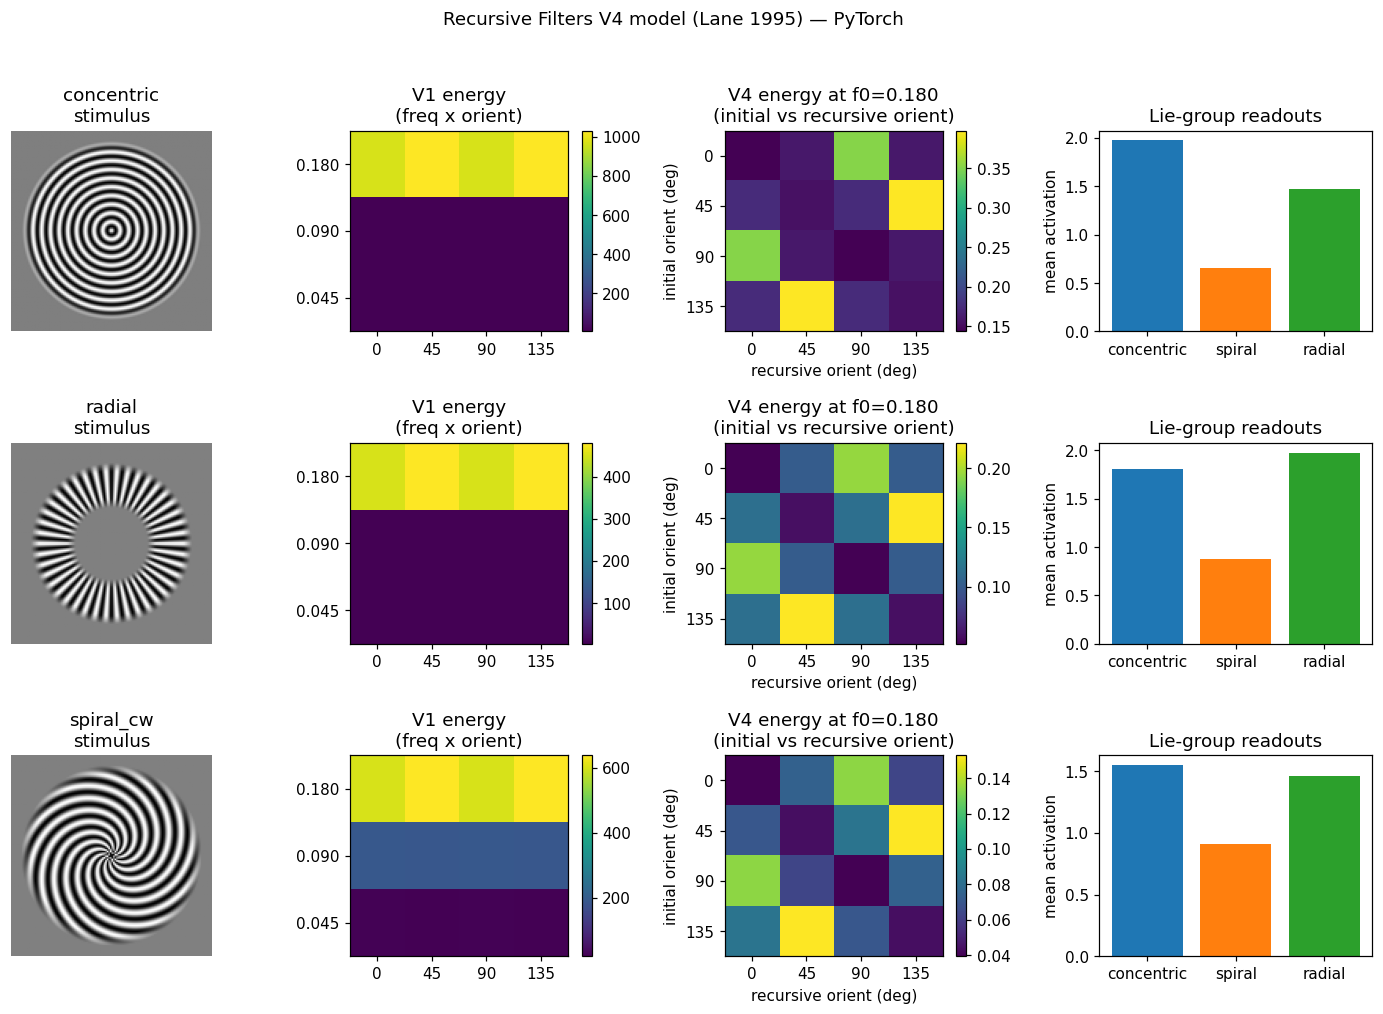
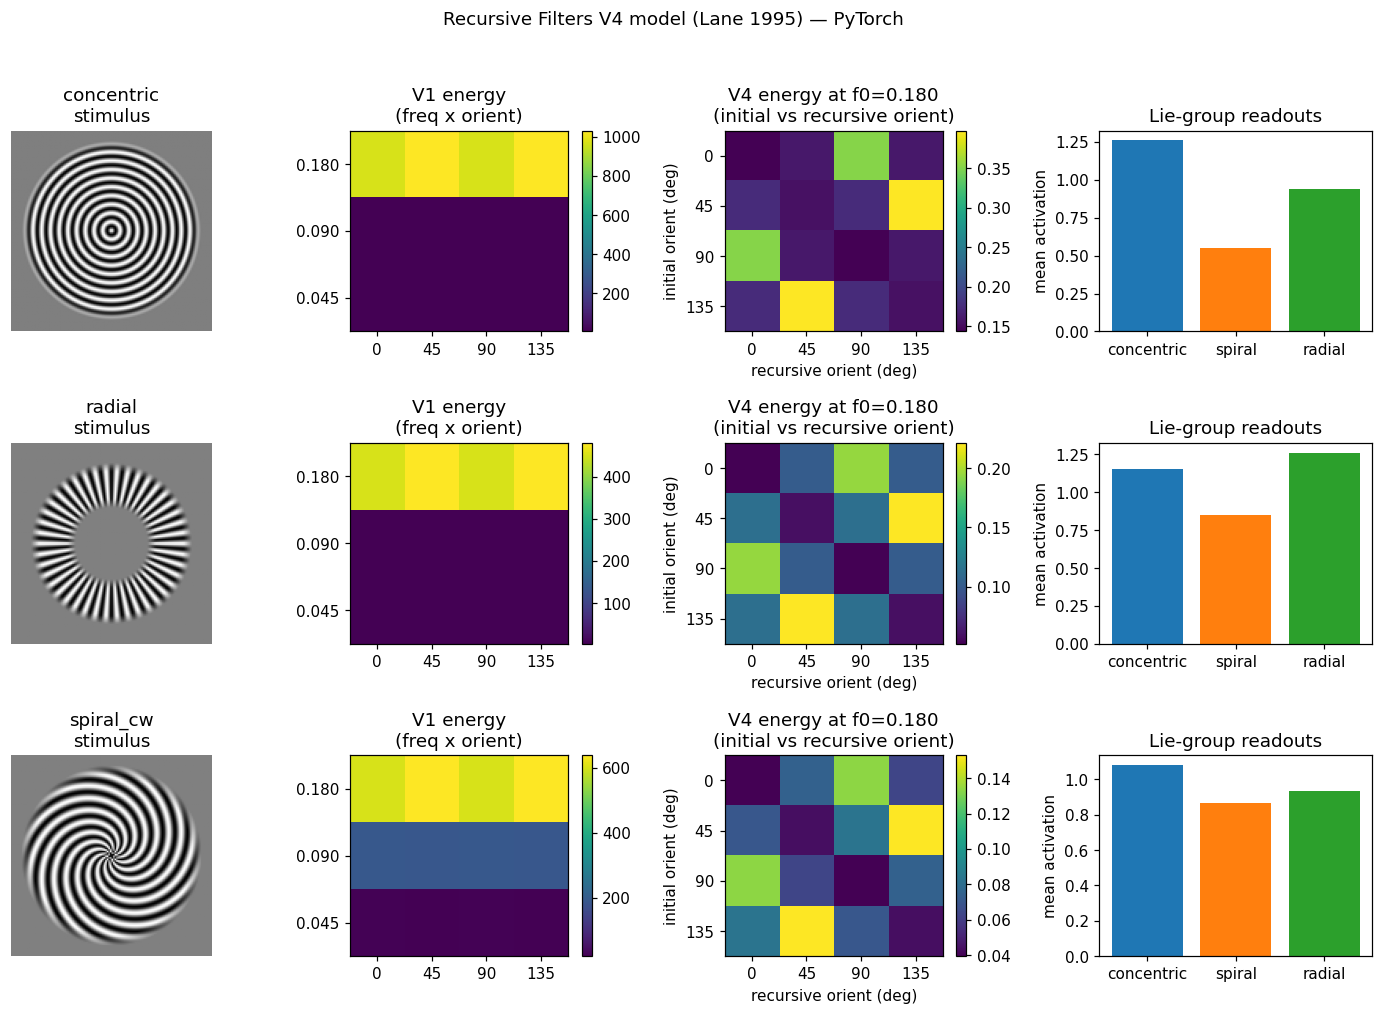
add OrientedDCBank and radial-cell lateral inhibition
Two no-training extensions to address the radial discrimination weakness:

* OrientedDCBank: anisotropic Gaussian "frequency-zero Gabor" channel
  added as an extra recursive-frequency slot in V4. Optional DOG-style
  perpendicular surround (v4_dc_surround_ratio) rejects adjacent parallel
  stripes; rectified and squared output for consistency with the V1->V4
  power pipeline. Configurable via use_v4_dc_channel,
  v4_dc_sigma_long, v4_dc_sigma_short_to_period, v4_dc_from_v1.

* LieGroupCells: optional radial_subtracts_orthogonal flag wires the
  radial cell's 1x1 conv weights to subtract the orthogonal (concentric-
  evidence) and oblique (spiral-evidence) bandpass channels from the
  parallel-pair sum, so the radial cell becomes an "elongated structure
  but no other Lie-group structure" detector.

* Sweep classifier switched to robust statistics (median + MAD instead
  of mean + std) so a few low-frequency outlier stimuli no longer
  hijack the per-cell normalization.

Findings: visualizing V1 power maps showed that for these stimuli the
"radial = single elongated segment" intuition from the paper actually
fires *more* on concentric, because the concentric-ring stack creates a
giant horizontally-elongated bowtie at orient=0 with much more energy
than the radial spokes. Bandpass V4 with subtractive inhibition turns
out to be a better radial detector than the DC channel alone. Sweep
accuracy with bandpass + subtraction: concentric 50%, radial 67%,
[…]

diff --git a/zebrastack/common/v4_recursive_filters.py b/zebrastack/common/v4_recursive_filters.py
@@ -144,6 +144,98 @@ def _gaussian_kernel(size: int, sigma: float) -> torch.Tensor:
     return k / k.sum()
 
 
+def _oriented_gaussian_kernel(
+    size: int,
+    orientation: float,
+    sigma_long: float,
+    sigma_short: float,
+    surround_ratio: float = 0.0,
+) -> torch.Tensor:
+    """Anisotropic kernel elongated along ``orientation`` (the long axis).
+
+    With ``surround_ratio == 0`` this is a plain anisotropic Gaussian and
+    responds to any elongated bright region. With ``surround_ratio > 0`` a
+    wider perpendicular Gaussian is subtracted from the centre so the
+    kernel becomes an elongated centre-surround detector that rejects
+    adjacent parallel stripes -- the structural difference between a
+    radial "single segment" (no nearby parallel companions) and a
+    concentric "stripe in a stack" (companions on either side).
+    """
+    half = (size - 1) / 2.0
+    ys, xs = torch.meshgrid(
+        torch.arange(size, dtype=torch.float32) - half,
+        torch.arange(size, dtype=torch.float32) - half,
+        indexing="ij",
+    )
+    x_long = xs * math.cos(orientation) + ys * math.sin(orientation)
+    y_short = -xs * math.sin(orientation) + ys * math.cos(orientation)
+    long_env = torch.exp(-(x_long ** 2) / (2.0 * sigma_long ** 2))
+    centre = torch.exp(-(y_short ** 2) / (2.0 * sigma_short ** 2))
+    if surround_ratio > 0:
+        sigma_surround = sigma_short * (1.0 + surround_ratio)
+        surround = torch.exp(-(y_short ** 2) / (2.0 * sigma_surround ** 2))
+        centre = centre - surround * (sigma_short / sigma_surround)
+    k = long_env * centre
+    norm = k.abs().sum()
+    if norm > 0:
+        k = k / norm
+    return k
+
+
+class OrientedDCBank(nn.Module):
+    """Bank of oriented anisotropic Gaussians (frequency-zero "Gabors").
+
+    Each kernel is a Gaussian elongated along its preferred orientation.
+    When applied to a V1 power map, the response at orientation θ is large
+    where the V1 power has an elongated bright region oriented along θ —
+    i.e., a "single segment" detector. This is the channel a radial-
+    selective V4 cell needs in order to fire on the radial stimulus's
+    DC-envelope structure that bandpass recursive Gabors reject.
+    """
+
+    def __init__(
+        self,
+        orientations: Sequence[float],
+        sigma_long: float,
+        sigma_short: float,
+        size: int,
+        surround_ratio: float = 0.0,
+        rectify: bool = True,
+        square_output: bool = True,
+    ):
+        super().__init__()
+        self.orientations = tuple(orientations)
+        self.size = size
+        self.rectify = rectify
+        self.square_output = square_output
+        kernels = torch.stack(
+            [
+                _oriented_gaussian_kernel(
+                    size, theta, sigma_long, sigma_short, surround_ratio
+                )
+                for theta in orientations
+            ]
+        ).unsqueeze(1)
+        self.register_buffer("kernels", kernels)
+
+    def forward(self, x: torch.Tensor) -> torch.Tensor:
+        if x.dim() == 3:
+            x = x.unsqueeze(1)
+        if x.shape[1] != 1:
+            raise ValueError(
+                f"OrientedDCBank expects single-channel input, got {x.shape[1]}"
+            )
+        pad = self.size // 2
+        pad = min(pad, x.shape[-1] - 1, x.shape[-2] - 1)
+        x_padded = F.pad(x, (pad, pad, pad, pad), mode="reflect")
+        out = F.conv2d(x_padded, self.kernels, padding=self.size // 2 - pad)
+        if self.rectify:
+            out = F.relu(out)
+        if self.square_output:
+            out = out ** 2
+        return out
+
+
 class V2Mix(nn.Module):
     """1x1 Conv2d cross-channel mixing layer for V2.
 
@@ -225,6 +317,12 @@ class RecursiveFiltersV4(nn.Module):
         include_dc_channel: bool = True,
         use_v2_mixing: bool = False,
         trainable_v2_mix: bool = True,
+        use_v4_dc_channel: bool = True,
+        v4_dc_sigma_long: float = 16.0,
+        v4_dc_sigma_short_to_period: float = 0.5,
+        v4_dc_surround_ratio: float = 1.5,
+        v4_dc_from_v1: bool = True,
+        v4_dc_kernel_size: int | None = None,
     ):
         super().__init__()
         self.v1_spec = v1_spec
@@ -237,6 +335,8 @@ class RecursiveFiltersV4(nn.Module):
         self.use_v2_pooling = use_v2_pooling
         self.include_dc_channel = include_dc_channel
         self.use_v2_mixing = use_v2_mixing
+        self.use_v4_dc_channel = use_v4_dc_channel
+        self.v4_dc_from_v1 = v4_dc_from_v1
 
         if use_v2_pooling:
             self.v2_pool = nn.ModuleList(
@@ -274,6 +374,25 @@ class RecursiveFiltersV4(nn.Module):
         self.v4_banks = nn.ModuleList([b for b in v4_banks if b is not None])
         self.v4_freqs = v4_freqs
 
+        if use_v4_dc_channel:
+            dc_size = v4_dc_kernel_size or (int(round(6 * v4_dc_sigma_long)) | 1)
+            self.v4_dc_banks = nn.ModuleList()
+            for f in v1_spec.frequencies:
+                sigma_short = max(v4_dc_sigma_short_to_period / max(f, 1e-6), 1.0)
+                sigma_short = min(sigma_short, v4_dc_sigma_long * 0.5)
+                self.v4_dc_banks.append(
+                    OrientedDCBank(
+                        orientations=self.recursive_orientations,
+                        sigma_long=v4_dc_sigma_long,
+                        sigma_short=sigma_short,
+                        size=dc_size,
+                        surround_ratio=v4_dc_surround_ratio,
+                        rectify=True,
+                    )
+                )
+        else:
+            self.v4_dc_banks = None
+
     def forward(self, x: torch.Tensor) -> dict[str, torch.Tensor]:
         v1_power = self.v1(x)
         b, _, h, w = v1_power.shape
@@ -297,13 +416,23 @@ class RecursiveFiltersV4(nn.Module):
             v2_grouped = v2_flat.view(b, n_f, n_o, h, w)
 
         v4_per_freq: list[torch.Tensor] = []
+        n_ro = len(self.recursive_orientations)
         for f_idx, bank in enumerate(self.v4_banks):
             channels = v2_grouped[:, f_idx]
             channels_flat = channels.reshape(b * n_o, 1, h, w)
             recursive_power = bank(channels_flat)
             n_rf = len(self.v4_freqs[f_idx])
-            n_ro = len(self.recursive_orientations)
             recursive_power = recursive_power.view(b, n_o, n_rf, n_ro, h, w)
+
+            if self.v4_dc_banks is not None:
+                if self.v4_dc_from_v1:
+                    dc_input = v1_grouped[:, f_idx].reshape(b * n_o, 1, h, w)
+                else:
+                    dc_input = channels_flat
+                dc_response = self.v4_dc_banks[f_idx](dc_input)
+                dc_response = dc_response.view(b, n_o, 1, n_ro, h, w)
+                recursive_power = torch.cat([recursive_power, dc_response], dim=2)
+
             v4_per_freq.append(recursive_power)
 
         out = {
@@ -462,6 +591,9 @@ class LieGroupCells(nn.Module):
         recursive_orientations: Sequence[float],
         n_initial_frequencies: int,
         n_recursive_frequencies: int,
+        dc_slot_index: int | None = None,
+        radial_uses_dc_only: bool = False,
+        radial_subtracts_orthogonal: bool = True,
         square: bool = False,
         trainable: bool = False,
     ):
@@ -471,6 +603,9 @@ class LieGroupCells(nn.Module):
         self.recursive_orientations = tuple(recursive_orientations)
         self.n_initial_frequencies = n_initial_frequencies
         self.n_recursive_frequencies = n_recursive_frequencies
+        self.dc_slot_index = dc_slot_index
+        self.radial_uses_dc_only = radial_uses_dc_only
+        self.radial_subtracts_orthogonal = radial_subtracts_orthogonal
         self.square = square
 
         n_init_o = len(initial_orientations)
@@ -485,23 +620,63 @@ class LieGroupCells(nn.Module):
             if target not in _LIE_GROUP_DELTAS:
                 raise ValueError(f"Unknown target: {target}")
             deltas = _LIE_GROUP_DELTAS[target]
-            n_contrib = 0
+            is_radial = target == "radial"
+
+            pos_pairs: list[tuple[int, int]] = []
+            neg_pairs: list[tuple[int, int]] = []
+
             for delta in deltas:
                 for i, theta_i in enumerate(initial_orientations):
                     target_theta = (theta_i + delta) % math.pi
                     j = _closest_orient_index(target_theta, recursive_orientations)
-                    for fi in range(n_initial_frequencies):
-                        for rfi in range(n_recursive_frequencies):
-                            ch = (
-                                fi * (n_init_o * n_recursive_frequencies * n_rec_o)
-                                + i * (n_recursive_frequencies * n_rec_o)
-                                + rfi * n_rec_o
-                                + j
-                            )
-                            weight[t_idx, ch, 0, 0] = 1.0
-                            n_contrib += 1
-            if n_contrib > 0:
-                weight[t_idx] /= n_contrib
+                    pos_pairs.append((i, j))
+            if is_radial and radial_subtracts_orthogonal:
+                competing_deltas = [math.pi / 2, math.pi / 4, -math.pi / 4]
+                for cdelta in competing_deltas:
+                    for i, theta_i in enumerate(initial_orientations):
+                        comp_theta = (theta_i + cdelta) % math.pi
+                        k = _closest_orient_index(comp_theta, recursive_orientations)
+                        neg_pairs.append((i, k))
+
+            n_pos = 0
+            for i, j in pos_pairs:
+                for fi in range(n_initial_frequencies):
+                    for rfi in range(n_recursive_frequencies):
+                        is_dc_slot = (
+                            dc_slot_index is not None and rfi == dc_slot_index
+                        )
+                        if is_radial and radial_uses_dc_only and not is_dc_slot:
+                            continue
+                        if (not is_radial) and is_dc_slot:
+                            continue
+                        ch = (
+                            fi * (n_init_o * n_recursive_frequencies * n_rec_o)
+                            + i * (n_recursive_frequencies * n_rec_o)
+                            + rfi * n_rec_o
+                            + j
+                        )
+                        weight[t_idx, ch, 0, 0] = 1.0
+                        n_pos += 1
+            if n_pos > 0:
+                weight[t_idx] /= n_pos
+
+            n_neg = 0
+            for i, k in neg_pairs:
+                for fi in range(n_initial_frequencies):
+                    for rfi in range(n_recursive_frequencies):
+                        if dc_slot_index is not None and rfi == dc_slot_index:
+                            continue
+                        ch = (
+                            fi * (n_init_o * n_recursive_frequencies * n_rec_o)
+                            + i * (n_recursive_frequencies * n_rec_o)
+                            + rfi * n_rec_o
+                            + k
+                        )
+                        weight[t_idx, ch, 0, 0] = -1.0
+                        n_neg += 1
+            if n_neg > 0:
+                neg_mask = weight[t_idx] < 0
+                weight[t_idx][neg_mask] /= n_neg
 
         self.conv = nn.Conv2d(in_channels, n_targets, kernel_size=1, bias=False)
         with torch.no_grad():
@@ -565,6 +740,14 @@ class RecursiveFiltersV4WithReadout(nn.Module):
         v2_sigma_to_period: float = 1.0,
         use_v2_mixing: bool = False,
         trainable_v2_mix: bool = True,
+        use_v4_dc_channel: bool = True,
+        v4_dc_sigma_long: float = 16.0,
+        v4_dc_sigma_short_to_period: float = 0.5,
+        v4_dc_surround_ratio: float = 1.5,
+        v4_dc_from_v1: bool = True,
+        v4_dc_kernel_size: int | None = None,
+        radial_uses_dc_only: bool = False,
+        radial_subtracts_orthogonal: bool = True,
         square_lie_cells: bool = False,
         trainable_lie_cells: bool = False,
     ):
@@ -578,13 +761,24 @@ class RecursiveFiltersV4WithReadout(nn.Module):
             v2_sigma_to_period=v2_sigma_to_period,
             use_v2_mixing=use_v2_mixing,
             trainable_v2_mix=trainable_v2_mix,
+            use_v4_dc_channel=use_v4_dc_channel,
+            v4_dc_sigma_long=v4_dc_sigma_long,
+            v4_dc_sigma_short_to_period=v4_dc_sigma_short_to_period,
+            v4_dc_surround_ratio=v4_dc_surround_ratio,
+            v4_dc_from_v1=v4_dc_from_v1,
+            v4_dc_kernel_size=v4_dc_kernel_size,
         )
+        n_recursive_frequencies = recursive_octaves + (1 if use_v4_dc_channel else 0)
+        dc_slot_index = recursive_octaves if use_v4_dc_channel else None
         self.lie_cells = LieGroupCells(
             targets=targets,
             initial_orientations=v1_spec.orientations,
             recursive_orientations=self.backbone.recursive_orientations,
             n_initial_frequencies=v1_spec.n_frequencies,
-            n_recursive_frequencies=recursive_octaves,
+            n_recursive_frequencies=n_recursive_frequencies,
+            dc_slot_index=dc_slot_index,
+            radial_uses_dc_only=radial_uses_dc_only,
+            radial_subtracts_orthogonal=radial_subtracts_orthogonal,
             square=square_lie_cells,
             trainable=trainable_lie_cells,
         )

diff --git a/examples/v4_recursive_filters_sweep.py b/examples/v4_recursive_filters_sweep.py
@@ -153,21 +153,22 @@ def raw_responses(model, trial: Trial, init_orients) -> dict[str, float]:
     out = model(trial.image.unsqueeze(0).unsqueeze(0))
     cells = out["lie_cells"]  # (1, n_targets, H, W)
     target_names = list(model.lie_cells.targets)
-    norm = total_v4_energy(out["v4_power"]).clamp_min(1e-12)
-    responses = {
-        name: float(cells[0, idx].mean().item() / float(norm.mean().item()))
+    return {
+        name: float(cells[0, idx].mean().item())
         for idx, name in enumerate(target_names)
     }
-    responses["radial_dc"] = float(radial_dc_readout(out["v2_dc"], init_orients).item())
-    return responses
 
 
-def z_score(per_cell_values: dict[str, list[float]]) -> dict[str, tuple[float, float]]:
+def robust_stats(per_cell_values: dict[str, list[float]]) -> dict[str, tuple[float, float]]:
+    """Per-cell median and MAD (median absolute deviation), robust to outliers."""
     stats = {}
     for k, vs in per_cell_values.items():
-        m = sum(vs) / len(vs)
-        var = sum((v - m) ** 2 for v in vs) / len(vs)
-        stats[k] = (m, math.sqrt(max(var, 1e-12)))
+        sorted_vs = sorted(vs)
+        n = len(sorted_vs)
+        median = sorted_vs[n // 2]
+        deviations = sorted([abs(v - median) for v in vs])
+        mad = deviations[n // 2] * 1.4826
+        stats[k] = (median, max(mad, 1e-12))
     return stats
 
 
@@ -190,6 +191,8 @@ def main() -> int:
         recursive_kernel_size=41,
         use_v2_pooling=True,
         v2_sigma_to_period=2.0,
+        use_v4_dc_channel=False,
+        radial_subtracts_orthogonal=True,
     )
     model.eval()
 
@@ -210,13 +213,13 @@ def main() -> int:
     # because the V4 bandpass picks up the most energy from rings).
     response_keys = list(raw[0][1].keys())
     pooled = {k: [r[1][k] for r in raw] for k in response_keys}
-    stats = z_score(pooled)
+    stats = robust_stats(pooled)
 
     def classify(scores: dict[str, float]) -> tuple[str, dict[str, float]]:
-        z_concentric = (scores["concentric"] - stats["concentric"][0]) / stats["concentric"][1]
-        z_radial = (scores["radial_dc"] - stats["radial_dc"][0]) / stats["radial_dc"][1]
-        z_spiral = (scores["spiral"] - stats["spiral"][0]) / stats["spiral"][1]
-        scored = {"concentric": z_concentric, "radial": z_radial, "spiral": z_spiral}
+        scored = {}
+        for cell in ("concentric", "radial", "spiral"):
+            mean, std = stats[cell]
+            scored[cell] = (scores[cell] - mean) / max(std, 1e-12)
         return max(scored, key=scored.get), scored
 
     confusion = {true: {pred: 0 for pred in families} for true in families}
